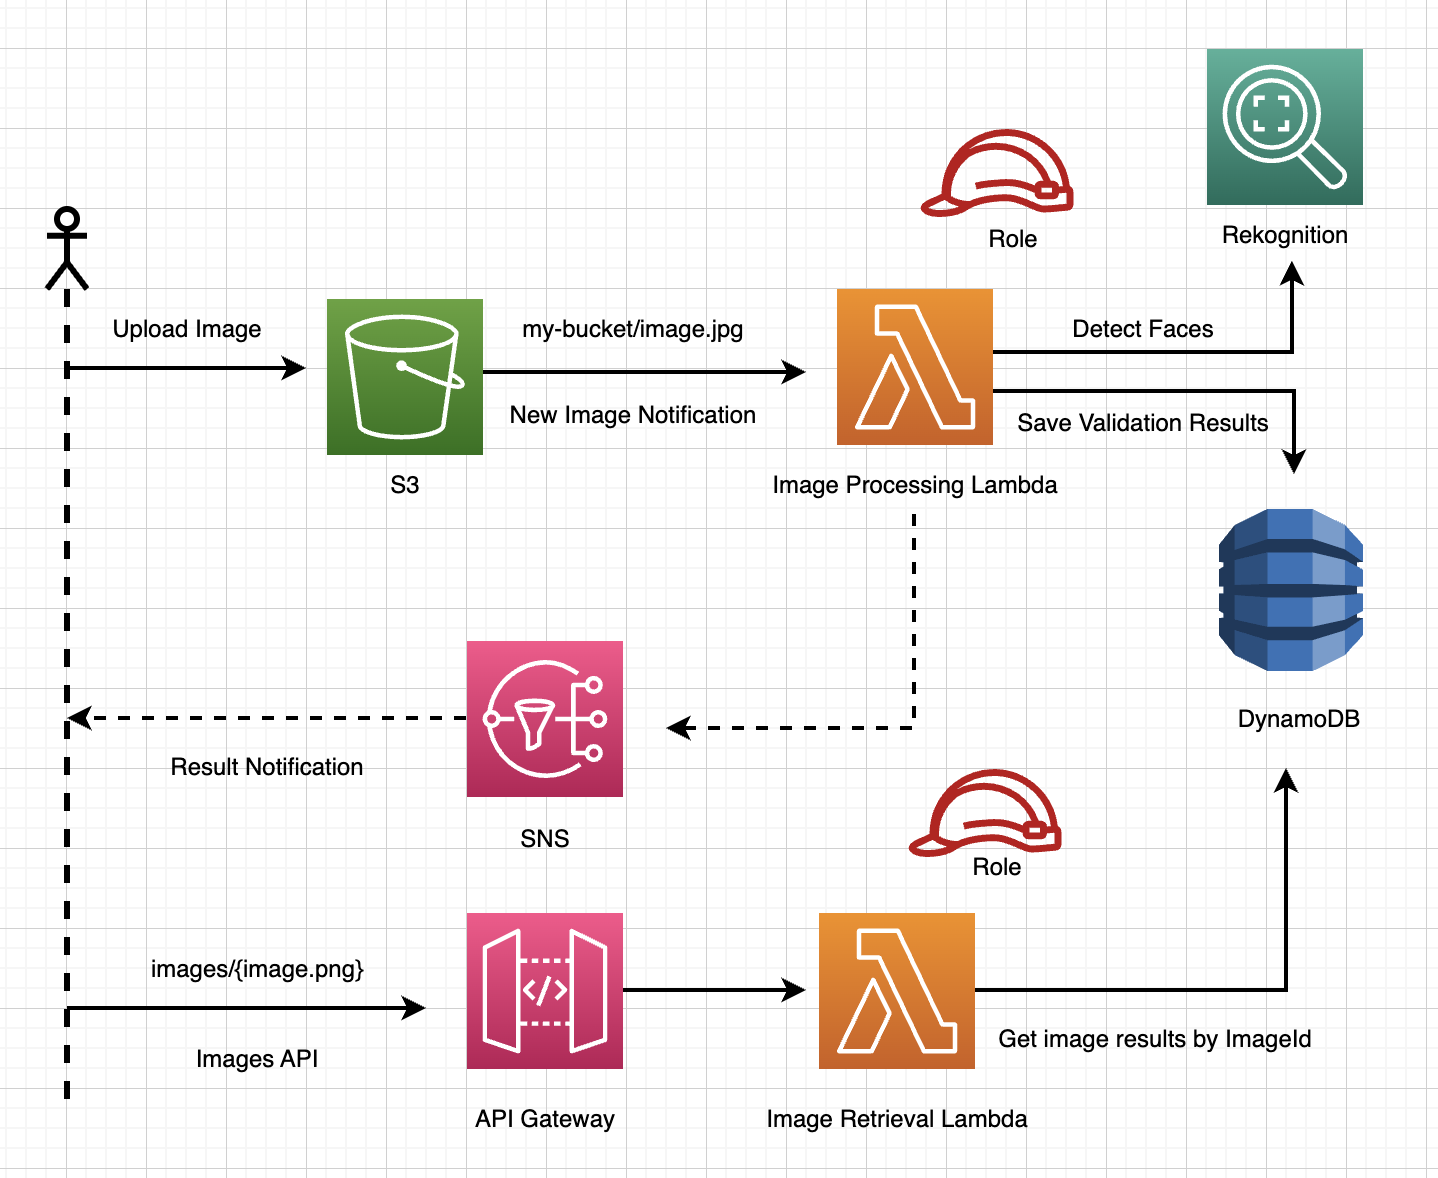
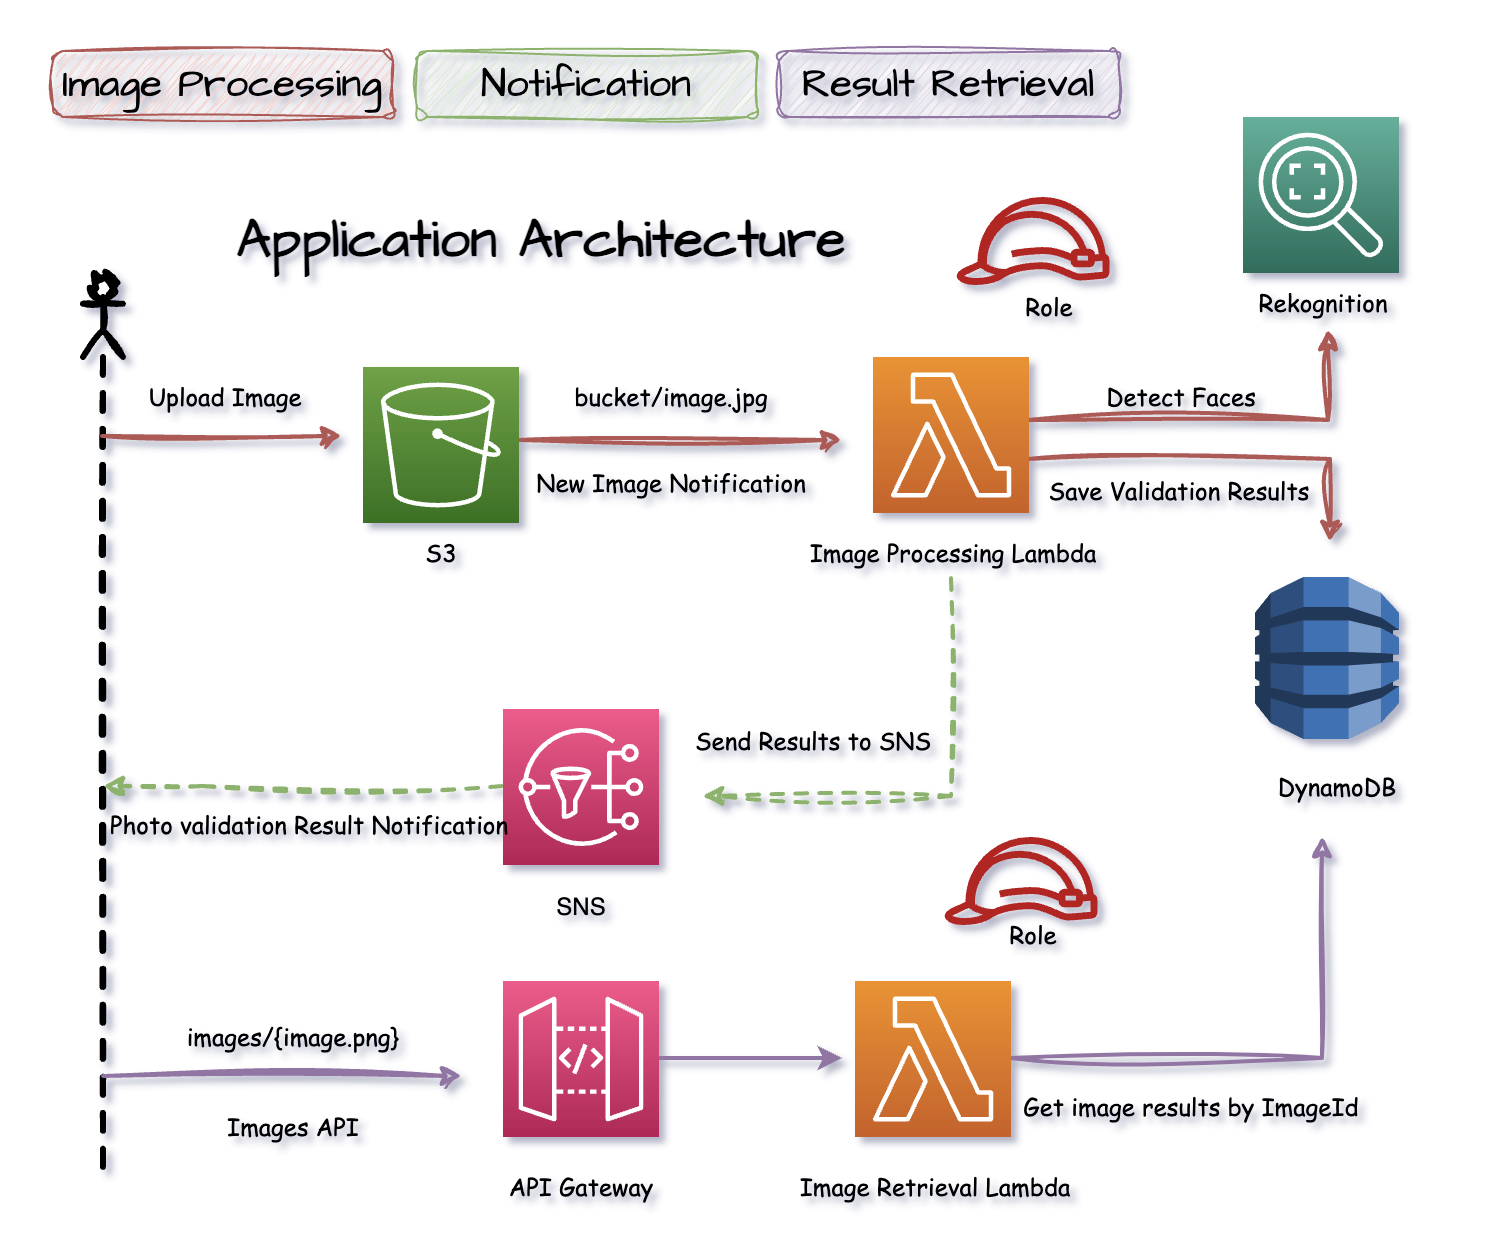
Created photo processing lambda

Changed region(s): [[0.0306, 0.0306, 0.9485, 0.9779], [0.153, 0.1834, 0.5814, 0.2445]]

diff --git a/lambdas/photo-validation/src/main/java/com/abranlezama/PhotoProcessingLambda.java b/lambdas/photo-validation/src/main/java/com/abranlezama/PhotoProcessingLambda.java
@@ -1,0 +1,137 @@
+package com.abranlezama;
+
+import com.amazonaws.services.lambda.runtime.Context;
+import com.amazonaws.services.lambda.runtime.RequestHandler;
+import com.amazonaws.services.lambda.runtime.events.S3Event;
+import com.fasterxml.jackson.core.JsonProcessingException;
+import com.fasterxml.jackson.databind.ObjectMapper;
+import software.amazon.awssdk.services.dynamodb.DynamoDbClient;
+import software.amazon.awssdk.services.dynamodb.model.AttributeValue;
+import software.amazon.awssdk.services.dynamodb.model.PutItemRequest;
+import software.amazon.awssdk.services.dynamodb.model.PutItemResponse;
+import software.amazon.awssdk.services.rekognition.RekognitionClient;
+import software.amazon.awssdk.services.rekognition.model.*;
+
+import java.time.LocalDateTime;
+import java.util.ArrayList;
+import java.util.HashMap;
+import java.util.List;
+import java.util.Map;
+
+public class PhotoProcessingLambda implements RequestHandler<S3Event, Map<String, String>> {
+
+    private final RekognitionClient rekognitionClient = RekognitionClient.builder().build();
+    private final DynamoDbClient dynamoDbClient = DynamoDbClient.builder()
+            .build();
+    private final ObjectMapper objectMapper =  new ObjectMapper();
+
+    @Override
+    public Map<String, String> handleRequest(S3Event event, Context context) {
+        String imageName = extractFileName(event);
+        String s3BucketName = "headshot-verification-images";
+
+        S3Object s3Object = S3Object.builder()
+                .bucket(s3BucketName)
+                .name(imageName)
+                .build();
+
+        Image image = Image.builder()
+                .s3Object(s3Object)
+                .build();
+
+        DetectFacesRequest request = DetectFacesRequest.builder()
+                .image(image)
+                .attributes(Attribute.ALL)
+                .build();
+
+
+        try {
+            System.out.println(objectMapper.writeValueAsString(event));
+        } catch (JsonProcessingException e) {
+            throw new RuntimeException(e);
+        }
+
+        DetectFacesResponse response = rekognitionClient.detectFaces(request);
+
+        Map<String, Map<String, Object>> faceEvaluationResult = extractFaceEvaluationResults(response.faceDetails().get(0));
+        Map<String, Object> evaluationResults = evaluateFace(faceEvaluationResult, getFaceDetectionThreshold());
+
+
+        saveResultToDatabase(faceEvaluationResult, imageName, evaluationResults);
+
+        return null;
+    }
+
+    private void saveResultToDatabase(Map<String, Map<String, Object>> faceDetails,
+                                      String fileName,
+                                      Map<String, Object> evaluationResult) {
+        Map<String, AttributeValue> itemValues = new HashMap<>();
+        itemValues.put("FileName", AttributeValue.builder().s(fileName).build());
+        itemValues.put("ValidationResult", AttributeValue.builder().s(evaluationResult.get("result").toString()).build());
+        itemValues.put("FailureReasons", AttributeValue.builder().s(evaluationResult.get("failure_reasons").toString()).build());
+        try {
+            itemValues.put("FaceDetails", AttributeValue.builder().s(objectMapper.writeValueAsString(faceDetails)).build());
+        } catch (JsonProcessingException e) {
+            throw new RuntimeException(e);
+        }
+        itemValues.put("Timestamp", AttributeValue.builder().s(LocalDateTime.now().toString()).build());
+
+        PutItemRequest request = PutItemRequest.builder()
+                .tableName("PhotoValidationResults")
+                .item(itemValues)
+                .build();
+
+        PutItemResponse response = dynamoDbClient.putItem(request);
+    }
+
+    private Map<String, Object> evaluateFace(Map<String, Map<String, Object>> faceMetrics,
+                                             Map<String, Map<String, Object>> threshold) {
+        Map<String, Object> result = new HashMap<>();
+        result.put("result", "PASS");
+        List<String> failReasons = new ArrayList<>();
+
+        for (Map.Entry<String, Map<String, Object>> entry : faceMetrics.entrySet()) {
+            boolean flag = entry.getValue().get("value") == threshold.get(entry.getKey()).get("desiredValue");
+            if ((float) entry.getValue().get("confidence") < (float) threshold.get(entry.getKey()).get("minConfidence")) {
+                flag = false;
+            }
+
+            if (!flag) {
+                result.replace("result", "FAIL");
+                failReasons.add(entry.getKey());
+            }
+        }
+        result.put("failure_reasons", failReasons);
+        return result;
+    }
+
+    private Map<String, Map<String, Object>> extractFaceEvaluationResults(FaceDetail faceDetail) {
+        return Map.of(
+                "Smile", Map.of("value", faceDetail.smile().value(), "confidence",
+                        faceDetail.smile().confidence()),
+                "Sunglasses", Map.of("value", faceDetail.sunglasses().value(), "confidence",
+                        faceDetail.sunglasses().confidence()),
+                "EyesOpen", Map.of("value", faceDetail.eyesOpen().value(), "confidence",
+                        faceDetail.eyesOpen().confidence()),
+                "MouthOpen", Map.of("value", faceDetail.mouthOpen().value(), "confidence",
+                        faceDetail.mouthOpen().confidence())
+        );
+
+    }
+
+    public Map<String, Map<String, Object>> getFaceDetectionThreshold() {
+        return Map.of(
+                "Smile", Map.of("desiredValue", false, "minConfidence", 90F),
+                "Sunglasses", Map.of("desiredValue", false, "minConfidence", 90F),
+                "EyesOpen", Map.of("desiredValue", true, "minConfidence", 90F),
+                "MouthOpen", Map.of("desiredValue", false, "minConfidence", 90F)
+        );
+    }
+
+    private String extractFileName(S3Event event) {
+        return event.getRecords().get(0)
+                .getS3()
+                .getObject()
+                .getKey();
+    }
+}
